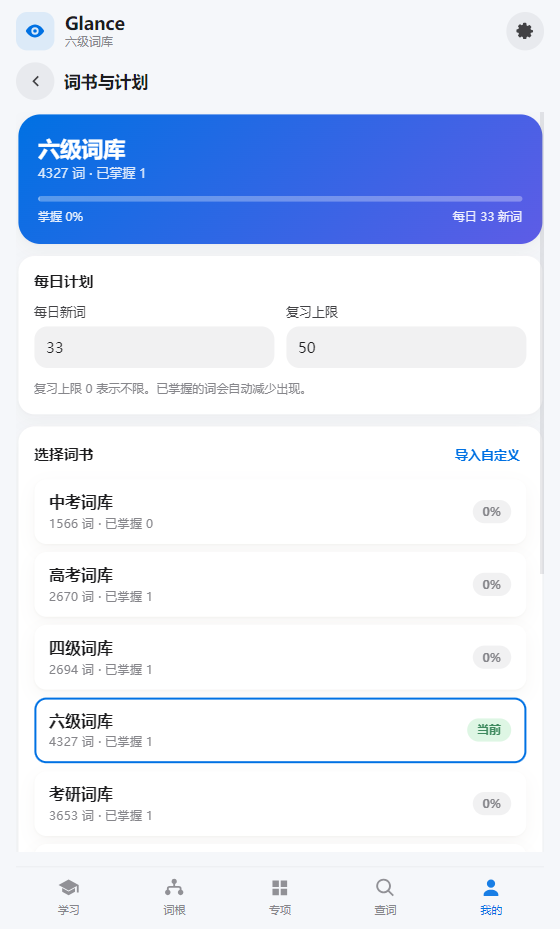
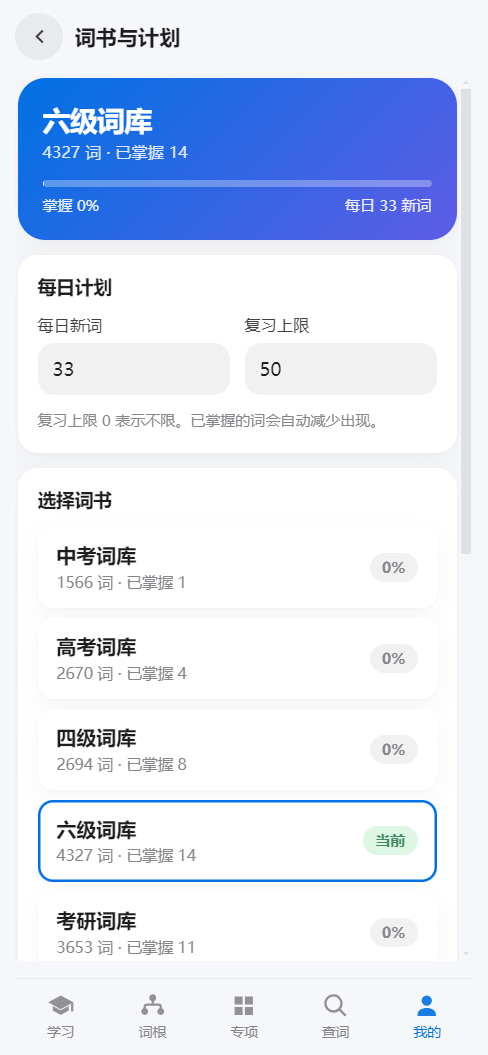
Document header removal and refresh screenshots

diff --git a/DEVELOPMENT.md b/DEVELOPMENT.md
@@ -618,6 +618,19 @@
 
 **验证（CDP 实操，390×844 @2x 与 360×800 @2x）**：服务商弹层正确叠在设置面板之上，四张卡片信息完整、无横向溢出；切换 MW 后显示 Key 输入并隐藏地址，切换自定义显示地址，切回中英词典恢复推荐态且写入持久化；遮罩 / X / Esc 均只关闭上层并保留设置面板；两次快速开合不出现被旧定时器隐藏的问题。测试页顶部「✕ 结束」全程可见，未作答与答对时操作条为 `display:none`，答错显示整行「继续」；答对自动进入下一题，结束确认取消后停留原题、确认后进入结果页；`node --check app/js/app.js` 通过，无控制台错误。截图更新 `quiz-session.png`，新增 `dict-provider.png`。
 
+**交付**：`android-29`（target `b8efb4c`，CI run 43433260787 成功）。
+
+### 8.20 移除各页顶部品牌栏 ✅
+
+**问题**：词根、专项、查词、我的四个页面顶部共用一条品牌栏（眼睛图标 + Glance + 当前词库），首屏被重复信息占用；学习页本身已有紧凑顶栏，不需要品牌栏。
+
+**实现**
+
+- 删除 `index.html` 的 `.app-header` 品牌块；清理 `.brand / .brand-mark / .brand-text / .brand-name / .lib-name` 样式、`switchView` 里不再被消费的 `data-current`，以及两处 `#lib-name` 文案同步。
+- 各页首个内容直接贴顶：词根页从「词根 / 词缀」切换与搜索框开始，专项页从说明文字开始，查词页从搜索框开始，我的页从资料卡开始；学习页保持原样。
+
+**验证**：390×844 @2x 逐页实测，四个页面顶部均无品牌栏、无遮挡与横向溢出；词根列表、专项卡片、查词详情、我的资料 / 统计 / 词书、设置弹层与词典服务商切换回归正常；`node --check app/js/app.js` 通过，无控制台错误。截图更新 `me.png / profile.png / stats.png / books.png / themes.png / dictionary.png`。
+
 ---
 
 ## 9. 关键约束与注意事项
@@ -636,6 +649,7 @@
 
 | 提交 | 内容 |
 |---|---|
+| `f3fde1d` | 移除词根/专项/查词/我的顶部品牌栏（眼睛图标 + Glance + 词库），首屏直接进入内容 |
 | `a99523d` | 词典服务商改成二级底部弹层卡片选择（推荐/Key 徽章 + 能力说明）；测试「结束」收进顶部胶囊，操作条仅答错时显示 |
 | `7df96ee` | 自定义词书导入修复：底部常驻入口 + 空状态、Android 文件输入挂载 DOM、CSV/BOM/表头/去重与重名处理 |
 | `55356ef` | 「我的」头像与昵称：256px 方形裁剪 + WebP 压缩、仅存本机，随备份导出/覆盖导入恢复 |
